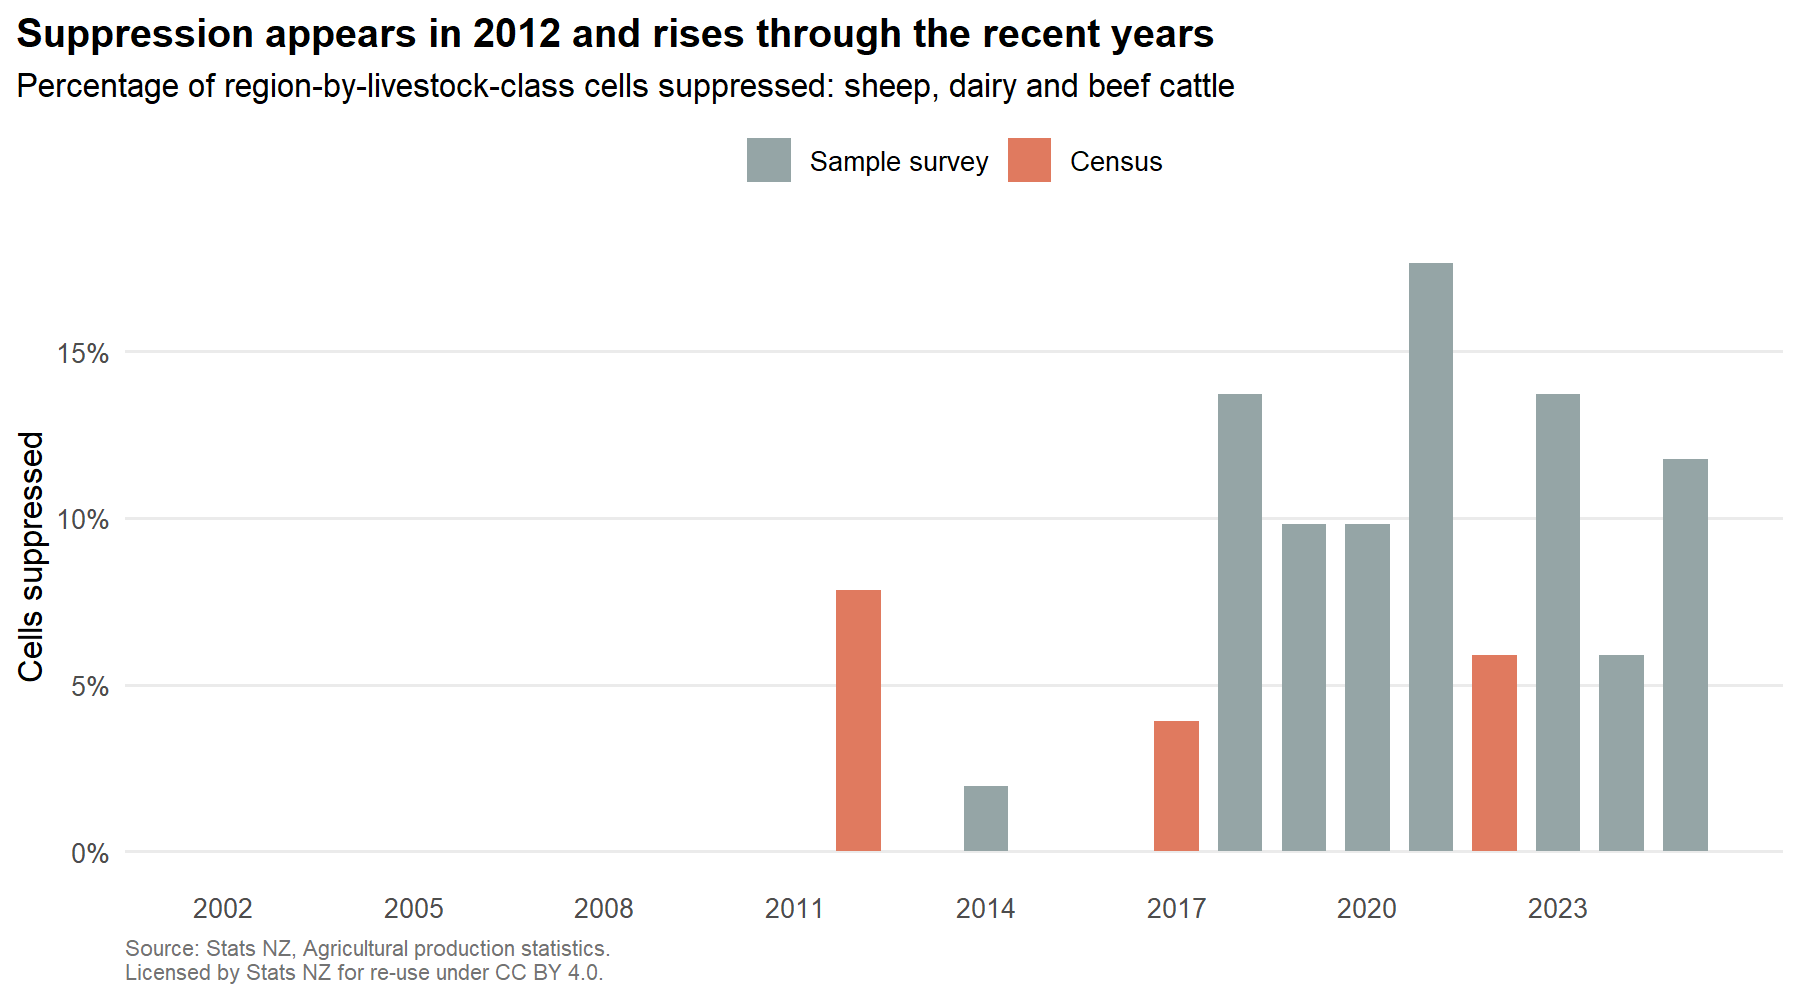
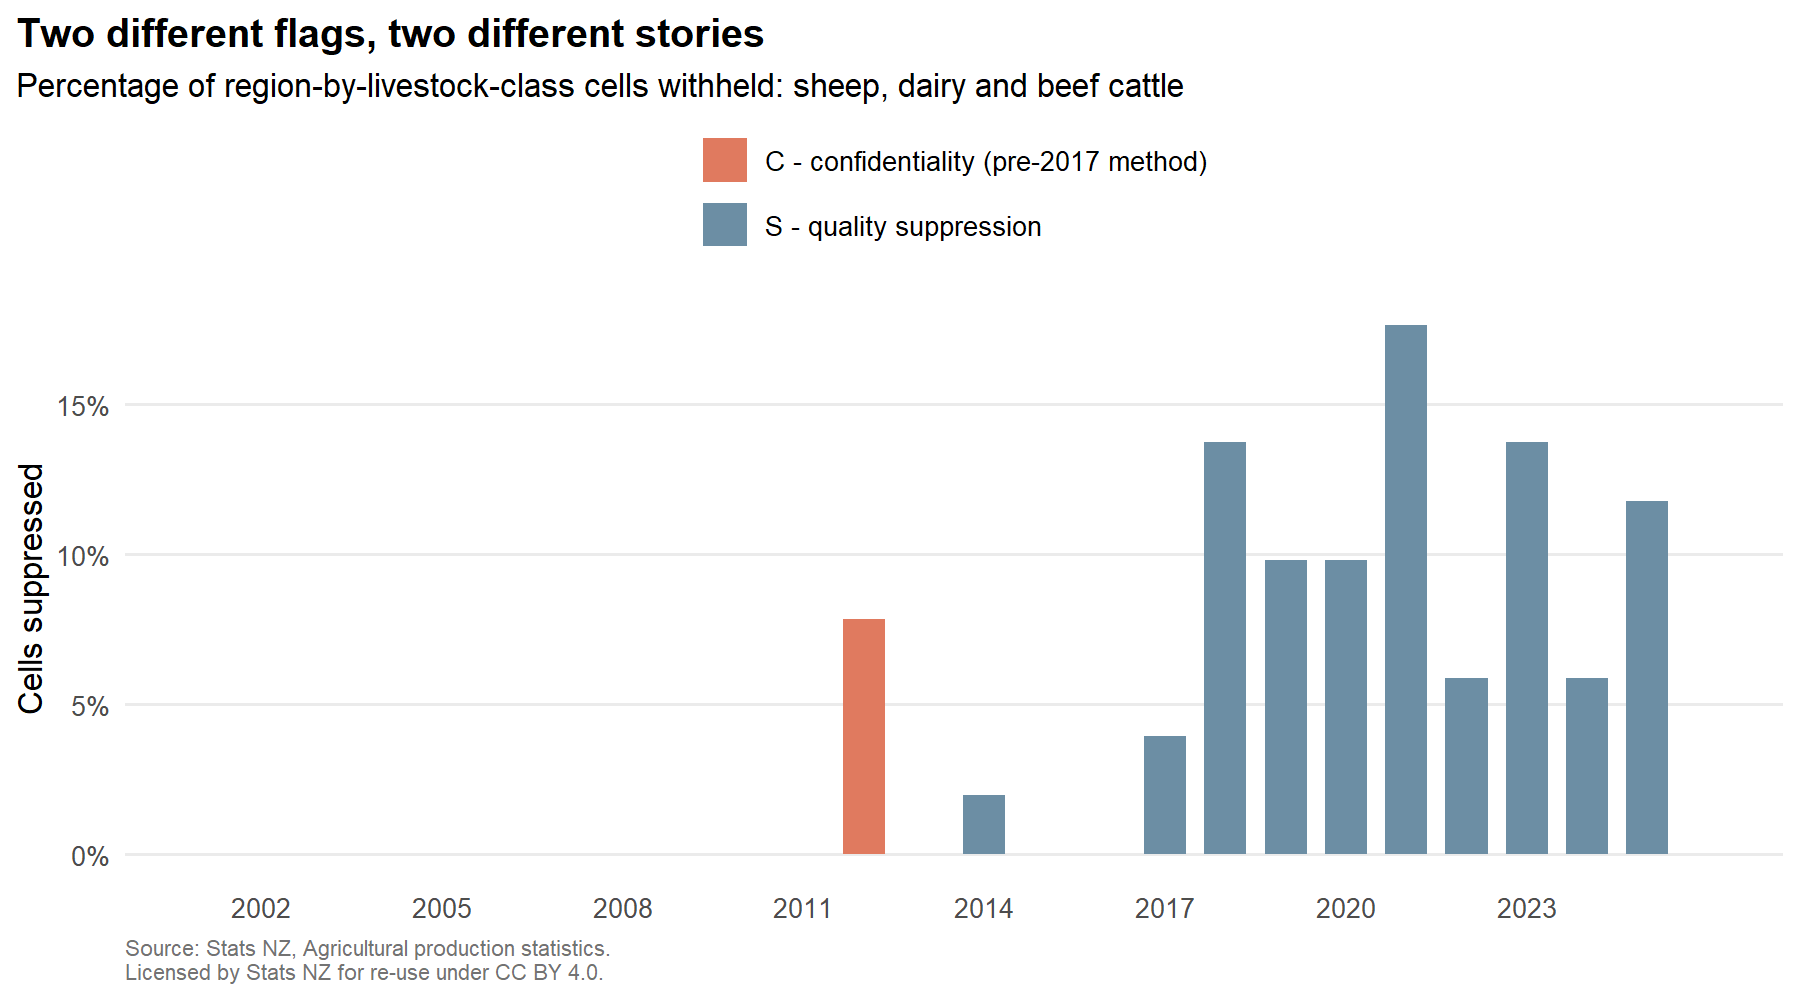
Verify every methodological statement against its Stats NZ source page
Corrections after reading the source pages rather than a secondary summary:

- Split the OBS_STATUS flags. C is the pre-2017 confidentiality flag and S is
  quality suppression; they were being counted as one series. C appears in
  2012-2016 across the whole extract and never after 2016, matching Stats NZ's
  statement that input perturbation replaced it in 2017. This explains the 2012
  spike the previous version reported as unexplained.
- Drop the claim of a forestry definitional break in 2022, which is not
  supported by any page read. Replaced with the sourced statement that Stats NZ
  no longer compiles forestry production statistics but still collects forestry
  land use, plus the planned NEFD revisions for 2016-2021.
- Drop the claim of an ANZSIC96 to ANZSIC06 recode in 2007, unsourced.
- Restate the 2002 start as the documented population change and the absence of
  surveys in 1997, 1998 and 2001, rather than an asserted population break.
- Rewrite the ethics section to assert only what the source pages state.

Added, all sourced: imputation at 30 percent of the 2025 total sheep estimate,
72.1 percent response rate, the Nelson single-responding-unit note that explains
one of the two dropped regions, sample and eligible population counts, and a
table naming the page behind each statement.

diff --git a/README.md b/README.md
@@ -26,7 +26,14 @@ Five validation rules run over the analysis table on every render; all pass.
 
 The more interesting result is the reconciliation. Summing the regions and comparing against the published national total gives a residual of **exactly zero head** in every year where all seventeen regions are published and no cell is suppressed. The residual becomes non-zero for two reasons only: a suppressed region, or a region code absent from that year's table. It peaks at 2.17 percent in 2021.
 
-Suppression itself is not constant. No cell is suppressed between 2002 and 2011; suppression appears in 2012 and reaches 17.6 percent of cells in 2021. Census years sit visibly below the survey years around them. Whether the pre-2012 zeroes mean "no suppression applied" or "flag not carried in this export" cannot be determined from the extract, and the report says so.
+Suppression is also not one thing. The `OBS_STATUS` column carries two different flags, and separating them turns an apparent anomaly into confirmation of the published method:
+
+- **`C`, confidentiality.** Appears in 2012–2016 across the whole extract and **never after 2016**. Stats NZ states that `C` was used prior to 2017 and that confidentiality has since been implemented by input perturbation instead, so cells no longer need replacing with `C`. The file stops using the flag in the same year the method changed.
+- **`S`, quality suppression** — applied where sampling errors or imputation levels are high. Runs from 2014 to 2025 and peaks at 17.6 percent of cells in 2021, with census years sitting below the survey years around them, as a rule keyed to sampling error would predict.
+
+The 2012 spike is therefore not a quality problem at all: all four withheld cells that year are `C`, not `S`. Whether the absence of any flag before 2012 means "nothing withheld" or "flag not carried in this export" cannot be determined from the extract, and the report says so.
+
+Two suppressed regions are explained in the methodology rather than guessed at: sampling error could not be calculated for Nelson because only one responding unit was observed per sampled stratum.
 
 ![Share of regional cells suppressed, by year](outputs/figures/03-suppression-rate.png)
 
@@ -37,6 +44,8 @@ Stats NZ table `AGR_AGR_003`, *Livestock Numbers by Regional Council*, dataflow 
 > Source data: Stats NZ, Agricultural production statistics, licensed by Stats NZ for re-use under the Creative Commons Attribution 4.0 International licence.
 
 Code in this repository is MIT licensed. See [`LICENSE`](LICENSE).
+
+Every methodological statement in the report was read on its source page before being written down; the [report lists which page each one came from](https://kenchch.github.io/nz-sheep-decline-by-region/#sources-for-the-methodological-statements). Claims that could not be sourced there are not made.
 
 ## Method
 
@@ -49,6 +58,7 @@ Code in this repository is MIT licensed. See [`LICENSE`](LICENSE).
 ## Limitations
 
 - Non-census years are sample estimates. Sampling errors are not recomputed and no weighting is applied here; a movement in a single small region should not be read as real change.
+- Imputation is large: Stats NZ reports 30 percent of the 2025 total sheep estimate as imputed, against a 3 percent relative sampling error. Every survey-year regional figure carries that.
 - All comparisons are ratios of head counts. They say nothing about stocking rate, feed demand, land use or emissions.
 - The target population is GST-registered agricultural businesses, so coverage of the smallest farms is partial and not quantifiable from published data.
 - The 2002–2025 endpoints are a choice. A 2015–2025 window gives the same qualitative answer, with the same three regions accounting for 59 percent rather than 54 percent.
